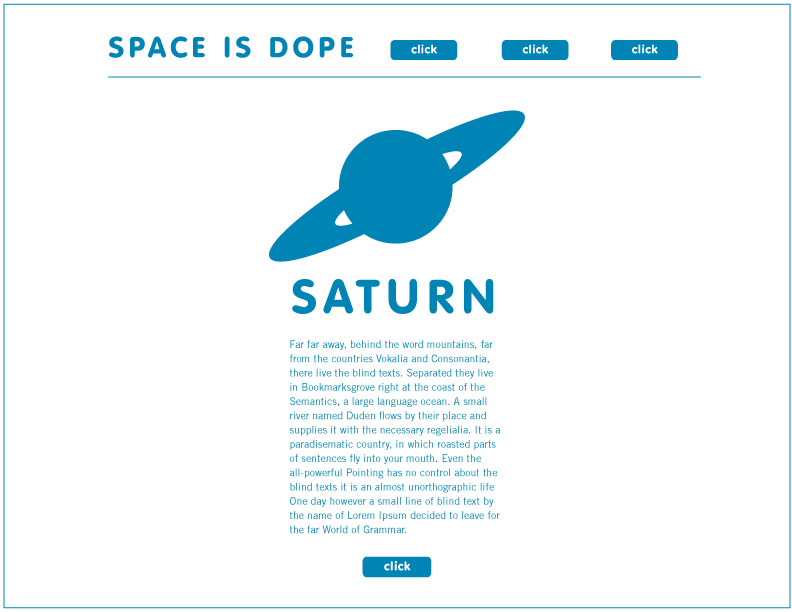
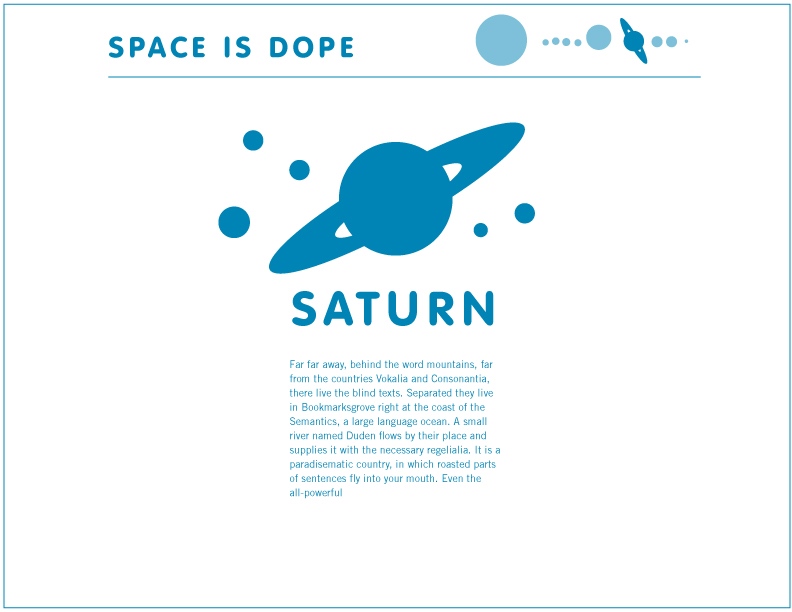
ADD WIREFRAMES

diff --git a/wireframes/index.html b/wireframes/index.html
@@ -7,6 +7,8 @@
   	<h3>a site about planets</h3>
   	<img src="planets1.jpg">
   	<img src="planets2.jpg">
+    <img src="planets22.jpg">
+    <img src="planets33.jpg">
   	<h3>mobile</h3>
   	<img src="planets3.jpg">
   	<img src="planets4.jpg">
